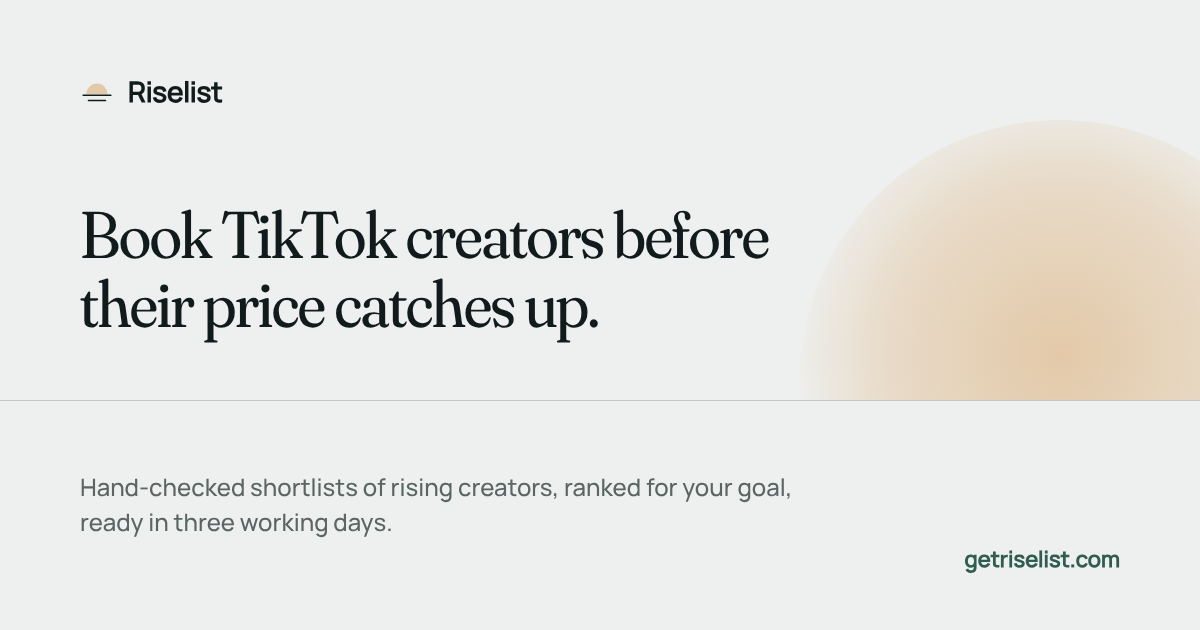
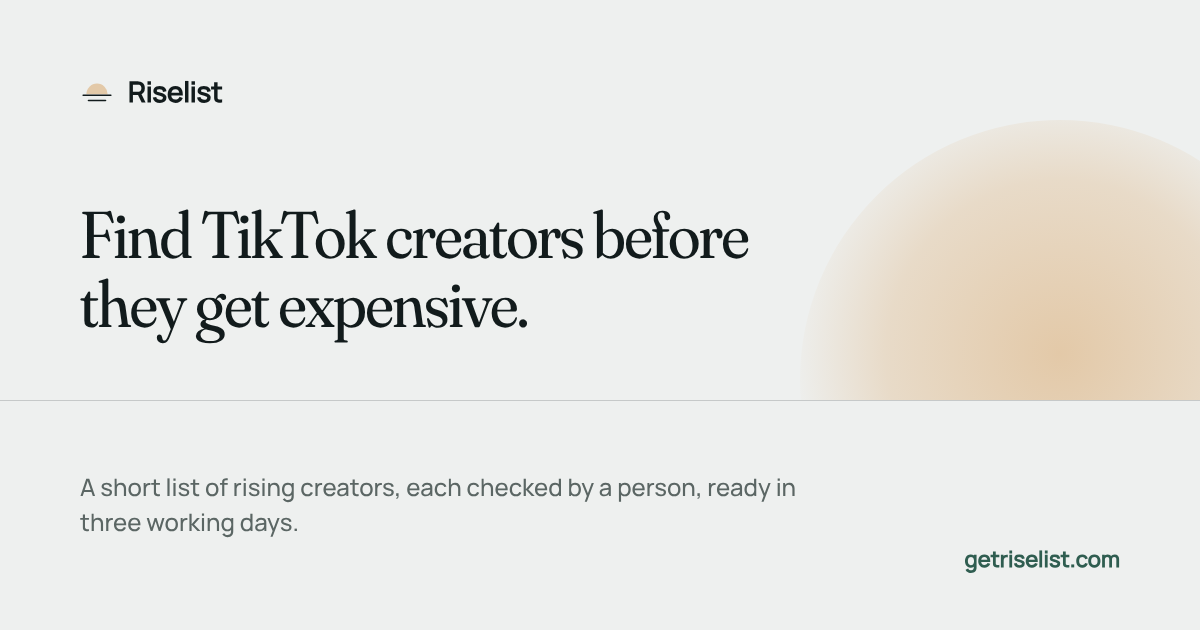
Home page in plainer words for non-marketers; new headline and share image
Claude-Session: https://claude.ai/code/session_01FeDgA2P8cRFVdXyxCXUNZ7

Changed region(s): [[0.0617, 0.3317, 0.6475, 0.4222], [0.1233, 0.4524, 0.4933, 0.5429], [0.0617, 0.754, 0.6783, 0.8444]]

diff --git a/index.html b/index.html
@@ -3,13 +3,13 @@
 <head>
   <meta charset="utf-8">
   <meta name="viewport" content="width=device-width, initial-scale=1">
-  <title>Riselist — Book TikTok creators before their price catches up</title>
+  <title>Riselist — Find TikTok creators before they get expensive</title>
   <script>document.documentElement.className += " js";</script>
   <meta name="description" content="Riselist finds TikTok creators whose views are rising faster than their price, checks each one by hand, and gives brands a short list of creators worth paying.">
   <meta name="theme-color" content="#EEF0EF">
   <link rel="canonical" href="https://getriselist.com/">
   <link rel="icon" href="/assets/favicon.svg" type="image/svg+xml">
-  <meta property="og:title" content="Riselist — Book TikTok creators before their price catches up">
+  <meta property="og:title" content="Riselist — Find TikTok creators before they get expensive">
   <meta property="og:description" content="We find creators in the gap between rising views and rising prices, check each one by hand, and give you a short list of creators worth paying.">
   <meta property="og:type" content="website">
   <meta property="og:url" content="https://getriselist.com/">
@@ -17,9 +17,9 @@
   <meta property="og:site_name" content="Riselist">
   <meta property="og:image:width" content="1200">
   <meta property="og:image:height" content="630">
-  <meta property="og:image:alt" content="Riselist: Book TikTok creators before their price catches up.">
+  <meta property="og:image:alt" content="Riselist: Find TikTok creators before they get expensive.">
   <meta name="twitter:card" content="summary_large_image">
-  <meta name="twitter:title" content="Riselist — Book TikTok creators before their price catches up">
+  <meta name="twitter:title" content="Riselist — Find TikTok creators before they get expensive">
   <meta name="twitter:description" content="We find creators in the gap between rising views and rising prices, check each one by hand, and give you a short list of creators worth paying.">
   <meta name="twitter:image" content="https://getriselist.com/assets/og.png">
   <link rel="apple-touch-icon" href="/assets/apple-touch-icon.png">
@@ -59,8 +59,8 @@
     <div class="wrap">
       <div>
         <p class="label rv d1">TikTok creators, found early</p>
-        <h1 id="hero-title" class="rv d2">Book TikTok creators before their price catches up.</h1>
-        <p class="lead rv d3">On TikTok, a creator's views go up first. Their price goes up weeks later. We find creators in that gap, check each one by hand, and give you a short list of people worth paying.</p>
+        <h1 id="hero-title" class="rv d2">Find TikTok creators before they get expensive.</h1>
+        <p class="lead rv d3">On TikTok, a creator's views go up first. Their price goes up weeks later. We find creators in that gap, check each one by hand, and send you a short list of the best ones for your brand.</p>
         <div class="hero-actions rv d4">
           <a class="btn btn-primary" href="#demo">See creators for your brand</a>
           <a class="btn btn-ghost" href="#book">Book a 15-minute call</a>
@@ -99,7 +99,7 @@
   <!-- STATEMENT -->
   <section class="statement reveal" aria-label="Our view">
     <div class="wrap">
-      <p>Follower counts tell you who <em>was</em> famous. Views tell you who is <em>about to be</em>.</p>
+      <p>Followers show who <em>was</em> popular. Views show who is <em>about to be</em>.</p>
     </div>
   </section>
 
@@ -109,8 +109,8 @@
       <div class="story-steps" id="story-steps">
         <div class="story-step active" data-week="0.5">
           <div class="inner">
-            <p class="label">The window</p>
-            <h2 id="story-title">Timing is the whole advantage.</h2>
+            <p class="label">Why timing matters</p>
+            <h2 id="story-title">Book them early. Pay much less.</h2>
             <p class="lead">Scroll, or move the slider, and watch twelve weeks in the life of a rising creator.</p>
           </div>
         </div>
@@ -123,19 +123,19 @@
         <div class="story-step" data-week="5">
           <div class="inner">
             <h3>Week five. The views arrive.<br>The price hasn't.</h3>
-            <p>Their videos are pulling eighty, ninety thousand views, and they still charge a small-creator fee. This is where we book.</p>
+            <p>Their videos now get 80,000 to 90,000 views, but they still charge like a small creator. This is when we book them.</p>
           </div>
         </div>
         <div class="story-step" data-week="8.5">
           <div class="inner">
             <h3>Week eight. Brands have noticed.</h3>
-            <p>The price climbs fast. The views don't. You are now paying for the same audience at four times the cost.</p>
+            <p>Their price shoots up, but their views stay the same. You now pay four times more to reach the same people.</p>
           </div>
         </div>
         <div class="story-step" data-week="12">
           <div class="inner">
             <h3>Week twelve. Everyone wants them.</h3>
-            <p>Full price for an audience that was yours for a fraction of it two months ago. Riselist exists so you get in at week five, not week twelve.</p>
+            <p>You pay full price for viewers you could have reached for a fraction of that two months ago. Riselist exists so you get in at week five, not week twelve.</p>
           </div>
         </div>
       </div>
@@ -166,7 +166,7 @@
           <div class="stats" aria-live="polite">
             <div class="stat"><b id="st-views">9K</b><span>Views per video</span></div>
             <div class="stat"><b id="st-price">$120</b><span>Price per video</span></div>
-            <div class="stat hi"><b id="st-cpm">$13.80</b><span>Cost per 1,000 views</span></div>
+            <div class="stat hi"><b id="st-cpm">$13.80</b><span>You pay per 1,000 viewers</span></div>
           </div>
           <p class="verdict" id="st-verdict">Too early. Nobody knows them yet.</p>
           <div class="story-scrub">
@@ -199,8 +199,8 @@
             <div class="seg" id="goals" role="group" aria-label="Your goal"></div>
           </div>
           <div class="group">
-            <span>Preferred creator size</span>
-            <div class="seg" id="sizes" role="group" aria-label="Preferred creator size"></div>
+            <span>Creator size</span>
+            <div class="seg" id="sizes" role="group" aria-label="Creator size"></div>
           </div>
         </div>
       </div>
@@ -219,14 +219,14 @@
     <div class="wrap">
       <div class="section-head reveal">
         <p class="label">What we check</p>
-        <h2 id="checks-title">Five things a follower count will never tell you.</h2>
+        <h2 id="checks-title">Five things a follower count does not show you.</h2>
       </div>
       <ul class="checks stagger">
-        <li><h3>They punch above their size</h3><p>Their videos pull far more views than their follower count suggests. You pay a small-creator fee for a large-creator reach.</p></li>
-        <li><h3>Their audience still trusts them</h3><p>They rarely post ads. When they recommend you, people listen instead of scrolling past.</p></li>
-        <li><h3>They are early on every trend</h3><p>They use the sounds and formats that are about to be everywhere, so your product is seen while a trend is growing, not after it has passed.</p></li>
-        <li><h3>They already know how to sell</h3><p>An active shop, a storefront, a promo code. Proof that their audience buys, not only watches.</p></li>
-        <li><h3>They look and sound like the big names, for less</h3><p>Name a famous creator you admire. We find smaller ones with the same style and audience, for a fraction of the fee.</p></li>
+        <li><h3>More people watch them than follow them</h3><p>Their videos get far more views than their follower count suggests. You pay a small creator's fee and reach a big creator's audience.</p></li>
+        <li><h3>Their followers trust them</h3><p>They rarely post ads, so when they recommend you, people listen instead of scrolling past.</p></li>
+        <li><h3>They catch trends early</h3><p>They join new trends before everyone else does, so people see your product while the trend is still growing.</p></li>
+        <li><h3>Their followers already buy from them</h3><p>They already sell through a TikTok Shop, a shop link or a discount code. Their followers buy, not just watch.</p></li>
+        <li><h3>They look and sound like the big names, for less</h3><p>Tell us a famous creator you like. We find smaller ones with the same style and the same kind of followers, for a fraction of the fee.</p></li>
       </ul>
     </div>
   </section>
@@ -240,8 +240,8 @@
       </div>
       <ol class="steps stagger">
         <li><h3>Tell us about your brand</h3><p>What you sell, who buys it, your budget, and whether you want sales, attention or a trend.</p></li>
-        <li><h3>Receive a checked shortlist</h3><p>Our software scores every creator against what you told us. Then we check each one by hand before the list reaches you.</p></li>
-        <li><h3>Reach out and go live</h3><p>Contact the creators yourself with the ready-made email we write for each one, or let us contact them and agree the price for you.</p></li>
+        <li><h3>Get your list</h3><p>Our software scores every creator against what you told us. Then we check each one by hand before the list reaches you.</p></li>
+        <li><h3>Contact them and go live</h3><p>Contact the creators yourself with the ready-made email we write for each one, or let us contact them and agree the price for you.</p></li>
       </ol>
     </div>
   </section>
@@ -332,7 +332,7 @@
         <details><summary>Where does your data come from?</summary><p>From what creators show publicly on TikTok and, soon, from creators who connect their own accounts. We look at every profile before it is added, and we update the numbers every week.</p></details>
         <details><summary>Are you part of TikTok?</summary><p>No. Riselist is an independent company. We are not connected to, or approved by, TikTok.</p></details>
         <details><summary>Which countries do you work in?</summary><p>Everywhere. Tell us where your customers are and we find creators whose audience lives there.</p></details>
-        <details><summary>Do you guarantee sales?</summary><p>No one honestly can. What we do is stack the odds: creators with real reach, a trusted voice, and a record of selling.</p></details>
+        <details><summary>Do you guarantee sales?</summary><p>No one honestly can. We improve your chances by choosing creators people actually watch, trust and buy from.</p></details>
       </div>
     </div>
   </section>

diff --git a/assets/main.js b/assets/main.js
@@ -211,7 +211,7 @@
       { id: 'finance', label: 'Money and apps', noun: 'money' },
       { id: 'travel', label: 'Travel', noun: 'travel' }
     ];
-    var GOALS = [{ id: 'sales', label: 'More sales' }, { id: 'awareness', label: 'Get noticed' }, { id: 'trend', label: 'Ride a trend' }];
+    var GOALS = [{ id: 'sales', label: 'More sales' }, { id: 'awareness', label: 'Get noticed' }, { id: 'trend', label: 'Join a trend' }];
     var SIZES = [
       { id: 'micro', label: '5k to 25k', min: 5000, max: 25000 },
       { id: 'mid', label: '25k to 100k', min: 25000, max: 100000 },
@@ -263,9 +263,9 @@
       if (state.goal === 'sales' && (c.s || c.z)) reasons.push(c.s ? 'already sells through a TikTok Shop' : 'runs a storefront');
       if (state.goal === 'trend' && p.parts.spike > 0.3) reasons.push('latest hit got ' + (c.t / c.m).toFixed(1) + '× their usual views');
       if (c.a < 8) reasons.push('almost never posts ads');
-      if (c.e >= 10.5) reasons.push('audience engages well above average');
+      if (c.e >= 10.5) reasons.push('lots of likes and comments for their size');
       reasons.push(p.inSize ? 'right in your size range' : 'close to your size range');
-      if (reasons.length < 2) reasons.push('steady views, video after video');
+      if (reasons.length < 2) reasons.push('gets steady views on every video');
       var tags = [];
       if ((c.g != null && c.g >= 25) || c.v >= 1.8) tags.push('<span class="tag hi">Rising</span>');
       if (c.a < 8) tags.push('<span class="tag">Rarely posts ads</span>');
